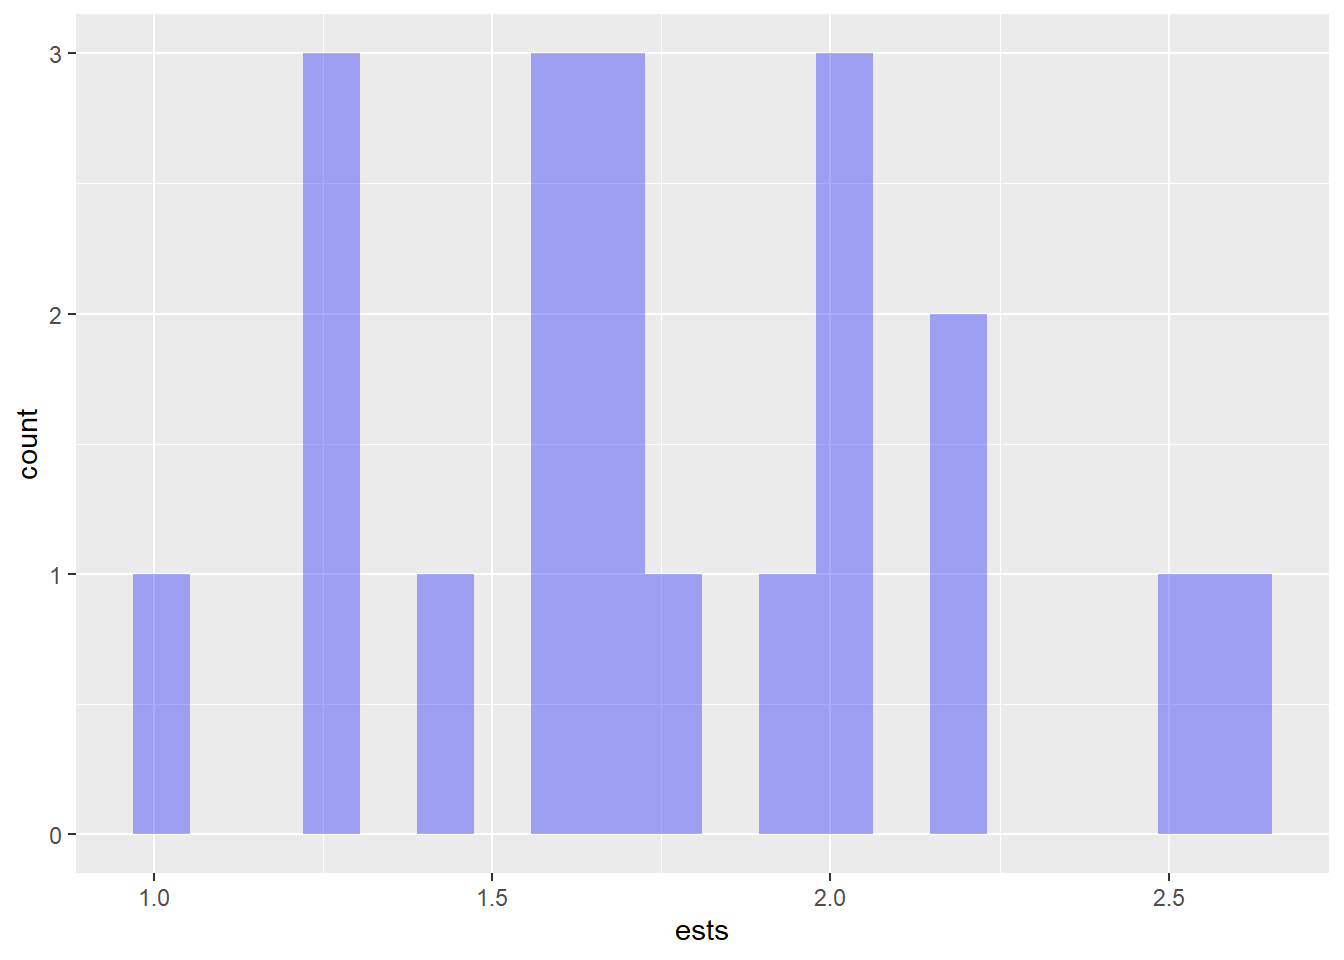
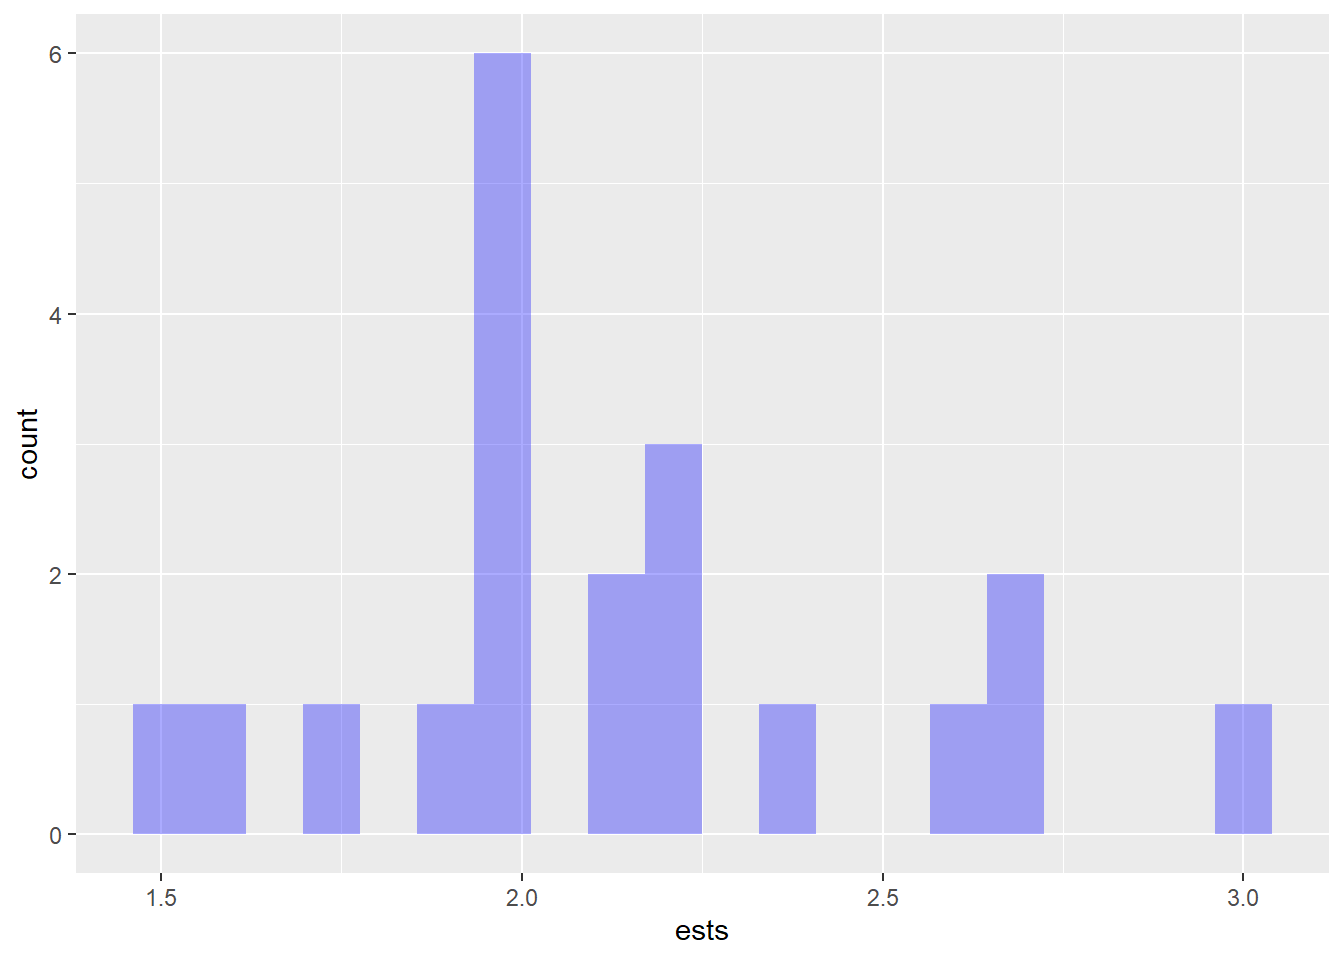
ML updates

diff --git a/docs/CK.html b/docs/CK.html
@@ -20,6 +20,40 @@ ul.task-list li input[type="checkbox"] {
   margin: 0 0.8em 0.2em -1em; /* quarto-specific, see https://github.com/quarto-dev/quarto-cli/issues/4556 */ 
   vertical-align: middle;
 }
+/* CSS for syntax highlighting */
+pre > code.sourceCode { white-space: pre; position: relative; }
+pre > code.sourceCode > span { display: inline-block; line-height: 1.25; }
+pre > code.sourceCode > span:empty { height: 1.2em; }
+.sourceCode { overflow: visible; }
+code.sourceCode > span { color: inherit; text-decoration: inherit; }
+div.sourceCode { margin: 1em 0; }
+pre.sourceCode { margin: 0; }
+@media screen {
+div.sourceCode { overflow: auto; }
+}
+@media print {
+pre > code.sourceCode { white-space: pre-wrap; }
+pre > code.sourceCode > span { text-indent: -5em; padding-left: 5em; }
+}
+pre.numberSource code
+  { counter-reset: source-line 0; }
+pre.numberSource code > span
+  { position: relative; left: -4em; counter-increment: source-line; }
+pre.numberSource code > span > a:first-child::before
+  { content: counter(source-line);
+    position: relative; left: -1em; text-align: right; vertical-align: baseline;
+    border: none; display: inline-block;
+    -webkit-touch-callout: none; -webkit-user-select: none;
+    -khtml-user-select: none; -moz-user-select: none;
+    -ms-user-select: none; user-select: none;
+    padding: 0 4px; width: 4em;
+  }
+pre.numberSource { margin-left: 3em;  padding-left: 4px; }
+div.sourceCode
+  {   }
+@media screen {
+pre > code.sourceCode > span > a:first-child::before { text-decoration: underline; }
+}
 /* CSS for citations */
 div.csl-bib-body { }
 div.csl-entry {
@@ -369,7 +403,7 @@ p(y_t) = (2\pi)^{-\frac{n}{2}}|var(y_t)|^{-\frac{1}{2}}e^{\left\{ -\frac{1}{2}(y
 </section>
 <section id="poisson-example" class="level3" data-number="5.2.2">
 <h3 data-number="5.2.2" class="anchored" data-anchor-id="poisson-example"><span class="header-section-number">5.2.2</span> Poisson example</h3>
-<p>Th Poisson distribution is a nice one to consider as the maximum likelihood estimate can be calculated easily – essentially in your head.<span class="citation" data-cites="Green1997">(^For example <a href="references.html#ref-Green1997" role="doc-biblioref">Greene 1997</a> constructs a Poisson distribution example where the chosen observations yield an exact estimate of the underlying parameter of the distribution.)</span></p>
+<p>Th Poisson distribution is a nice one to consider as the maximum likelihood estimate can be calculated easily – essentially in your head.<a href="#fn1" class="footnote-ref" id="fnref1" role="doc-noteref"><sup>1</sup></a></p>
 <p>The Poisson distribution is <span class="math display">\[
 p(y_i,\ \theta )=\frac{e^{-\theta }\theta ^{y_i}}{y_i!}
 \]</span> for <span class="math inline">\(y&gt;0\)</span>, zero otherwise with the property <span class="math inline">\(E[Y]=var(Y)=\theta\)</span>.</p>
@@ -418,18 +452,100 @@ L(\theta | y) = P(y,\theta)
 \]</span> Finally, check for maximum <span class="math display">\[
 \frac{\partial^2\ln L(\theta)}{(\partial\theta)^2} = -\frac{\sum_i y_i}{\theta^2} &lt; 0
 \]</span></p>
+<div class="cell" data-layout-align="center">
+<details>
+<summary>Code</summary>
+<div class="sourceCode cell-code" id="cb1"><pre class="sourceCode r code-with-copy"><code class="sourceCode r"><span id="cb1-1"><a href="#cb1-1" aria-hidden="true" tabindex="-1"></a><span class="fu">ggplot</span>(t) <span class="sc">+</span> </span>
+<span id="cb1-2"><a href="#cb1-2" aria-hidden="true" tabindex="-1"></a>  <span class="fu">geom_histogram</span>(<span class="fu">aes</span>(<span class="at">x=</span>ests), <span class="at">fill=</span><span class="st">"blue"</span>, <span class="at">alpha=</span>.<span class="dv">33</span>, <span class="at">color=</span><span class="cn">NA</span>, <span class="at">bins=</span><span class="dv">20</span>) <span class="sc">+</span></span>
+<span id="cb1-3"><a href="#cb1-3" aria-hidden="true" tabindex="-1"></a>  <span class="fu">theme_minimal</span>()</span></code><button title="Copy to Clipboard" class="code-copy-button"><i class="bi"></i></button></pre></div>
+</details>
+<div class="cell-output-display">
+<div class="quarto-figure quarto-figure-center">
+<figure class="figure">
+<p><img src="CK_files/figure-html/ests-1.png" class="img-fluid figure-img" style="width:85.0%"></p>
+</figure>
+</div>
+</div>
+<details>
+<summary>Code</summary>
+<div class="sourceCode cell-code" id="cb2"><pre class="sourceCode r code-with-copy"><code class="sourceCode r"><span id="cb2-1"><a href="#cb2-1" aria-hidden="true" tabindex="-1"></a>theta  <span class="ot">&lt;-</span> <span class="fu">seq</span>(<span class="dv">0</span>, <span class="dv">8</span>, <span class="dv">1</span>)</span>
+<span id="cb2-2"><a href="#cb2-2" aria-hidden="true" tabindex="-1"></a>y      <span class="ot">&lt;-</span> (<span class="fu">exp</span>(<span class="sc">-</span>lambda)<span class="sc">*</span>lambda<span class="sc">^</span>(theta))<span class="sc">/</span>(<span class="fu">factorial</span>(theta))</span>
+<span id="cb2-3"><a href="#cb2-3" aria-hidden="true" tabindex="-1"></a>df     <span class="ot">&lt;-</span> <span class="fu">tibble</span>(<span class="at">theta =</span> theta) <span class="sc">%&gt;%</span></span>
+<span id="cb2-4"><a href="#cb2-4" aria-hidden="true" tabindex="-1"></a>  <span class="fu">mutate</span>(</span>
+<span id="cb2-5"><a href="#cb2-5" aria-hidden="true" tabindex="-1"></a>    <span class="st">`</span><span class="at">lambda == 1</span><span class="st">`</span> <span class="ot">=</span> (<span class="fu">exp</span>(<span class="sc">-</span><span class="dv">1</span>)<span class="sc">*</span><span class="dv">1</span><span class="sc">^</span>(theta))<span class="sc">/</span>(<span class="fu">factorial</span>(theta)),</span>
+<span id="cb2-6"><a href="#cb2-6" aria-hidden="true" tabindex="-1"></a>    <span class="st">`</span><span class="at">lambda == 2</span><span class="st">`</span> <span class="ot">=</span> (<span class="fu">exp</span>(<span class="sc">-</span><span class="dv">2</span>)<span class="sc">*</span><span class="dv">2</span><span class="sc">^</span>(theta))<span class="sc">/</span>(<span class="fu">factorial</span>(theta)),</span>
+<span id="cb2-7"><a href="#cb2-7" aria-hidden="true" tabindex="-1"></a>    <span class="st">`</span><span class="at">lambda == 3</span><span class="st">`</span> <span class="ot">=</span> (<span class="fu">exp</span>(<span class="sc">-</span><span class="dv">3</span>)<span class="sc">*</span><span class="dv">3</span><span class="sc">^</span>(theta))<span class="sc">/</span>(<span class="fu">factorial</span>(theta)))</span>
+<span id="cb2-8"><a href="#cb2-8" aria-hidden="true" tabindex="-1"></a></span>
+<span id="cb2-9"><a href="#cb2-9" aria-hidden="true" tabindex="-1"></a>df <span class="sc">%&gt;%</span></span>
+<span id="cb2-10"><a href="#cb2-10" aria-hidden="true" tabindex="-1"></a>  <span class="fu">pivot_longer</span>(<span class="at">cols =</span> <span class="sc">-</span>theta, <span class="at">names_to =</span> <span class="st">"lambda"</span>) <span class="sc">%&gt;%</span></span>
+<span id="cb2-11"><a href="#cb2-11" aria-hidden="true" tabindex="-1"></a>  <span class="fu">ggplot</span>() <span class="sc">+</span></span>
+<span id="cb2-12"><a href="#cb2-12" aria-hidden="true" tabindex="-1"></a>  <span class="fu">geom_line</span>(<span class="fu">aes</span>(<span class="at">x=</span>theta, <span class="at">y=</span>value, <span class="at">color=</span>lambda), <span class="at">size=</span><span class="dv">1</span>) <span class="sc">+</span></span>
+<span id="cb2-13"><a href="#cb2-13" aria-hidden="true" tabindex="-1"></a>  <span class="fu">geom_point</span>(<span class="fu">aes</span>(<span class="at">x=</span>theta, <span class="at">y=</span>value, <span class="at">color=</span>lambda)) <span class="sc">+</span></span>
+<span id="cb2-14"><a href="#cb2-14" aria-hidden="true" tabindex="-1"></a>  <span class="fu">theme_minimal</span>() <span class="sc">+</span></span>
+<span id="cb2-15"><a href="#cb2-15" aria-hidden="true" tabindex="-1"></a>  <span class="fu">labs</span>(<span class="at">title=</span><span class="st">"Poisson density example"</span>, <span class="at">x=</span><span class="st">""</span>, <span class="at">y=</span><span class="st">""</span>,</span>
+<span id="cb2-16"><a href="#cb2-16" aria-hidden="true" tabindex="-1"></a>       <span class="at">color=</span><span class="fu">expression</span>(lambda)) <span class="sc">+</span></span>
+<span id="cb2-17"><a href="#cb2-17" aria-hidden="true" tabindex="-1"></a>  <span class="fu">theme</span>(<span class="at">plot.title =</span> <span class="fu">element_text</span>(<span class="at">hjust =</span> <span class="fl">0.5</span>),</span>
+<span id="cb2-18"><a href="#cb2-18" aria-hidden="true" tabindex="-1"></a>        <span class="at">plot.subtitle =</span> <span class="fu">element_text</span>(<span class="at">hjust =</span> <span class="fl">0.5</span>),</span>
+<span id="cb2-19"><a href="#cb2-19" aria-hidden="true" tabindex="-1"></a>        <span class="at">legend.position =</span> <span class="fu">c</span>(.<span class="dv">8</span>,.<span class="dv">8</span>)) <span class="sc">+</span></span>
+<span id="cb2-20"><a href="#cb2-20" aria-hidden="true" tabindex="-1"></a>  <span class="fu">scale_colour_discrete</span>(<span class="at">labels =</span> <span class="fu">parse_format</span>())</span></code><button title="Copy to Clipboard" class="code-copy-button"><i class="bi"></i></button></pre></div>
+</details>
+<div class="cell-output-display">
+<div class="quarto-figure quarto-figure-center">
+<figure class="figure">
+<p><img src="CK_files/figure-html/ests-2.png" class="img-fluid figure-img" style="width:85.0%"></p>
+</figure>
+</div>
+</div>
+</div>
 <div class="cell">
+<details>
+<summary>Code</summary>
+<div class="sourceCode cell-code" id="cb3"><pre class="sourceCode r code-with-copy"><code class="sourceCode r"><span id="cb3-1"><a href="#cb3-1" aria-hidden="true" tabindex="-1"></a>e <span class="ot">&lt;-</span> <span class="fu">c</span>(<span class="dv">5</span>,<span class="dv">0</span>,<span class="dv">1</span>,<span class="dv">1</span>,<span class="dv">0</span>,<span class="dv">3</span>,<span class="dv">2</span>,<span class="dv">3</span>,<span class="dv">4</span>,<span class="dv">1</span>)</span>
+<span id="cb3-2"><a href="#cb3-2" aria-hidden="true" tabindex="-1"></a>l <span class="ot">&lt;-</span> <span class="fu">seq</span>(<span class="dv">0</span>,<span class="dv">5</span>,<span class="fl">0.05</span>)</span>
+<span id="cb3-3"><a href="#cb3-3" aria-hidden="true" tabindex="-1"></a>y <span class="ot">&lt;-</span> (<span class="fu">exp</span>(<span class="sc">-</span>n<span class="sc">*</span>l)<span class="sc">*</span>l<span class="sc">^</span>(<span class="fu">sum</span>(e)))<span class="sc">/</span>(<span class="fu">prod</span>(<span class="fu">factorial</span>(e)))</span>
+<span id="cb3-4"><a href="#cb3-4" aria-hidden="true" tabindex="-1"></a></span>
+<span id="cb3-5"><a href="#cb3-5" aria-hidden="true" tabindex="-1"></a><span class="fu">tibble</span>(<span class="at">l=</span>l, <span class="at">y=</span>y) <span class="sc">%&gt;%</span></span>
+<span id="cb3-6"><a href="#cb3-6" aria-hidden="true" tabindex="-1"></a>  <span class="fu">ggplot</span>() <span class="sc">+</span></span>
+<span id="cb3-7"><a href="#cb3-7" aria-hidden="true" tabindex="-1"></a>  <span class="fu">geom_line</span>(<span class="fu">aes</span>(<span class="at">x=</span>l, <span class="at">y=</span>y), <span class="at">color=</span><span class="st">"red"</span>, <span class="at">linewidth=</span><span class="dv">1</span>) <span class="sc">+</span></span>
+<span id="cb3-8"><a href="#cb3-8" aria-hidden="true" tabindex="-1"></a>  <span class="fu">theme_minimal</span>() <span class="sc">+</span></span>
+<span id="cb3-9"><a href="#cb3-9" aria-hidden="true" tabindex="-1"></a>  <span class="fu">labs</span>(<span class="at">title=</span><span class="st">"Poisson density example"</span>,</span>
+<span id="cb3-10"><a href="#cb3-10" aria-hidden="true" tabindex="-1"></a>       <span class="at">x=</span><span class="fu">expression</span>(<span class="fu">paste</span>(<span class="st">"Value of "</span>, lambda)),</span>
+<span id="cb3-11"><a href="#cb3-11" aria-hidden="true" tabindex="-1"></a>       <span class="at">y=</span><span class="st">"Joint density"</span>) <span class="sc">+</span></span>
+<span id="cb3-12"><a href="#cb3-12" aria-hidden="true" tabindex="-1"></a>  <span class="fu">theme</span>(<span class="at">plot.title =</span> <span class="fu">element_text</span>(<span class="at">hjust =</span> <span class="fl">0.5</span>))</span></code><button title="Copy to Clipboard" class="code-copy-button"><i class="bi"></i></button></pre></div>
+</details>
 <div class="cell-output-display">
-<p><img src="CK_files/figure-html/unnamed-chunk-1-1.png" class="img-fluid" width="672"></p>
+<p><img src="CK_files/figure-html/unnamed-chunk-2-1.png" class="img-fluid" width="672"></p>
 </div>
-<div class="cell-output-display">
-<p><img src="CK_files/figure-html/unnamed-chunk-1-2.png" class="img-fluid" width="672"></p>
 </div>
+<p>Maintain the value of <span class="math inline">\(\lambda\)</span> of 2. Now generate <span class="math inline">\(reps=20\)</span> replications of <span class="math inline">\(n=10\)</span> observations and plot the empirical density of each and the maximum likelihood estimate for each replication.</p>
+<div class="cell">
+<details>
+<summary>Code</summary>
+<div class="sourceCode cell-code" id="cb4"><pre class="sourceCode r code-with-copy"><code class="sourceCode r"><span id="cb4-1"><a href="#cb4-1" aria-hidden="true" tabindex="-1"></a>t2 <span class="ot">&lt;-</span> t <span class="sc">%&gt;%</span></span>
+<span id="cb4-2"><a href="#cb4-2" aria-hidden="true" tabindex="-1"></a>  <span class="fu">group_by</span>(name) <span class="sc">%&gt;%</span></span>
+<span id="cb4-3"><a href="#cb4-3" aria-hidden="true" tabindex="-1"></a>  <span class="fu">mutate</span>(<span class="at">r =</span> <span class="fu">list</span>((<span class="fu">exp</span>(<span class="sc">-</span>n<span class="sc">*</span>l)<span class="sc">*</span>l<span class="sc">^</span>sum)<span class="sc">/</span>dd))</span>
+<span id="cb4-4"><a href="#cb4-4" aria-hidden="true" tabindex="-1"></a></span>
+<span id="cb4-5"><a href="#cb4-5" aria-hidden="true" tabindex="-1"></a>nms <span class="ot">&lt;-</span> <span class="fu">paste0</span>(<span class="st">"Rep_"</span>, <span class="fu">str_pad</span>(<span class="dv">1</span><span class="sc">:</span>reps, <span class="dv">2</span>, <span class="at">pad=</span><span class="st">"0"</span>))</span>
+<span id="cb4-6"><a href="#cb4-6" aria-hidden="true" tabindex="-1"></a></span>
+<span id="cb4-7"><a href="#cb4-7" aria-hidden="true" tabindex="-1"></a>tt <span class="ot">&lt;-</span> <span class="fu">bind_cols</span>(t2<span class="sc">$</span>r, <span class="at">.name_repair =</span> <span class="sc">~</span> nms) <span class="sc">%&gt;%</span></span>
+<span id="cb4-8"><a href="#cb4-8" aria-hidden="true" tabindex="-1"></a>  <span class="fu">mutate</span>(<span class="at">l =</span> l)</span>
+<span id="cb4-9"><a href="#cb4-9" aria-hidden="true" tabindex="-1"></a></span>
+<span id="cb4-10"><a href="#cb4-10" aria-hidden="true" tabindex="-1"></a>tt <span class="sc">%&gt;%</span></span>
+<span id="cb4-11"><a href="#cb4-11" aria-hidden="true" tabindex="-1"></a>  <span class="fu">pivot_longer</span>(<span class="at">cols =</span> <span class="sc">-</span>l) <span class="sc">%&gt;%</span></span>
+<span id="cb4-12"><a href="#cb4-12" aria-hidden="true" tabindex="-1"></a>  <span class="fu">ggplot</span>() <span class="sc">+</span></span>
+<span id="cb4-13"><a href="#cb4-13" aria-hidden="true" tabindex="-1"></a>  <span class="fu">geom_line</span>(<span class="fu">aes</span>(<span class="at">x=</span>l, <span class="at">y=</span>value, <span class="at">color=</span>name), <span class="at">show.legend =</span> <span class="cn">FALSE</span>) <span class="sc">+</span></span>
+<span id="cb4-14"><a href="#cb4-14" aria-hidden="true" tabindex="-1"></a>  <span class="fu">geom_vline</span>(<span class="fu">aes</span>(<span class="at">xintercept=</span>lambda), <span class="at">color=</span><span class="st">"red"</span>, <span class="at">linetype=</span><span class="dv">3</span>, <span class="at">linewidth=</span><span class="fl">0.75</span>) <span class="sc">+</span></span>
+<span id="cb4-15"><a href="#cb4-15" aria-hidden="true" tabindex="-1"></a>  <span class="fu">facet_wrap</span>(<span class="sc">~</span> name, <span class="at">scales =</span> <span class="st">"free_y"</span>) <span class="sc">+</span></span>
+<span id="cb4-16"><a href="#cb4-16" aria-hidden="true" tabindex="-1"></a>  <span class="fu">theme_minimal</span>() <span class="sc">+</span></span>
+<span id="cb4-17"><a href="#cb4-17" aria-hidden="true" tabindex="-1"></a>  <span class="fu">labs</span>(<span class="at">title    =</span> <span class="fu">paste</span>(<span class="st">"Poisson density, sample size"</span>, n),</span>
+<span id="cb4-18"><a href="#cb4-18" aria-hidden="true" tabindex="-1"></a>       <span class="at">subtitle =</span> <span class="fu">expression</span>(<span class="fu">paste</span>(<span class="st">"Dotted line: true value of "</span>, lambda)),</span>
+<span id="cb4-19"><a href="#cb4-19" aria-hidden="true" tabindex="-1"></a>       <span class="at">x        =</span> <span class="fu">expression</span>(<span class="fu">paste</span>(<span class="st">"Estimated value of "</span>, lambda)),</span>
+<span id="cb4-20"><a href="#cb4-20" aria-hidden="true" tabindex="-1"></a>       <span class="at">y        =</span> <span class="st">"Joint density"</span>) <span class="sc">+</span></span>
+<span id="cb4-21"><a href="#cb4-21" aria-hidden="true" tabindex="-1"></a>  <span class="fu">theme</span>(<span class="at">plot.title =</span> <span class="fu">element_text</span>(<span class="at">hjust =</span> <span class="fl">0.5</span>),</span>
+<span id="cb4-22"><a href="#cb4-22" aria-hidden="true" tabindex="-1"></a>        <span class="at">plot.subtitle =</span> <span class="fu">element_text</span>(<span class="at">hjust =</span> <span class="fl">0.5</span>))</span></code><button title="Copy to Clipboard" class="code-copy-button"><i class="bi"></i></button></pre></div>
+</details>
 <div class="cell-output-display">
-<p><img src="CK_files/figure-html/unnamed-chunk-1-3.png" class="img-fluid" width="672"></p>
-</div>
-<div class="cell-output-display">
-<p><img src="CK_files/figure-html/unnamed-chunk-1-4.png" class="img-fluid" width="672"></p>
+<p><img src="CK_files/figure-html/unnamed-chunk-3-1.png" class="img-fluid" width="672"></p>
 </div>
 </div>
 <section id="ml-and-regression" class="level3" data-number="5.3.1">
@@ -750,6 +866,14 @@ Harvey, Andrew C. 1989. <em>Forecasting, Structural Time Series Models and the K
 Kim, Chang-Jin, and Charles R. Nelson. 1999. <em>State-Space Models with Regime Switching: Classical and Gibbs-Sampling Approaches with Applications</em>. MIT Press.
 </div>
 </div>
+</section>
+<section id="footnotes" class="footnotes footnotes-end-of-document" role="doc-endnotes">
+<hr>
+<ol>
+<li id="fn1"><p>For example <span class="citation" data-cites="Green1997">Greene (<a href="references.html#ref-Green1997" role="doc-biblioref">1997</a>)</span> constructs a Poisson distribution example where the chosen observations yield an exact estimate of the underlying parameter of the distribution. The example is to find the most likely value of <span class="math inline">\(\theta\)</span> given observations <span class="math display">\[
+5,\ 0,\ 1,\ 1,\ 0,\ 3,\ 2,\ 3,\ 4,\ 1
+\]</span> ten observations which sum to 20.<a href="#fnref1" class="footnote-back" role="doc-backlink">↩</a></p></li>
+</ol>
 </section>
 
 </main> <!-- /main -->
